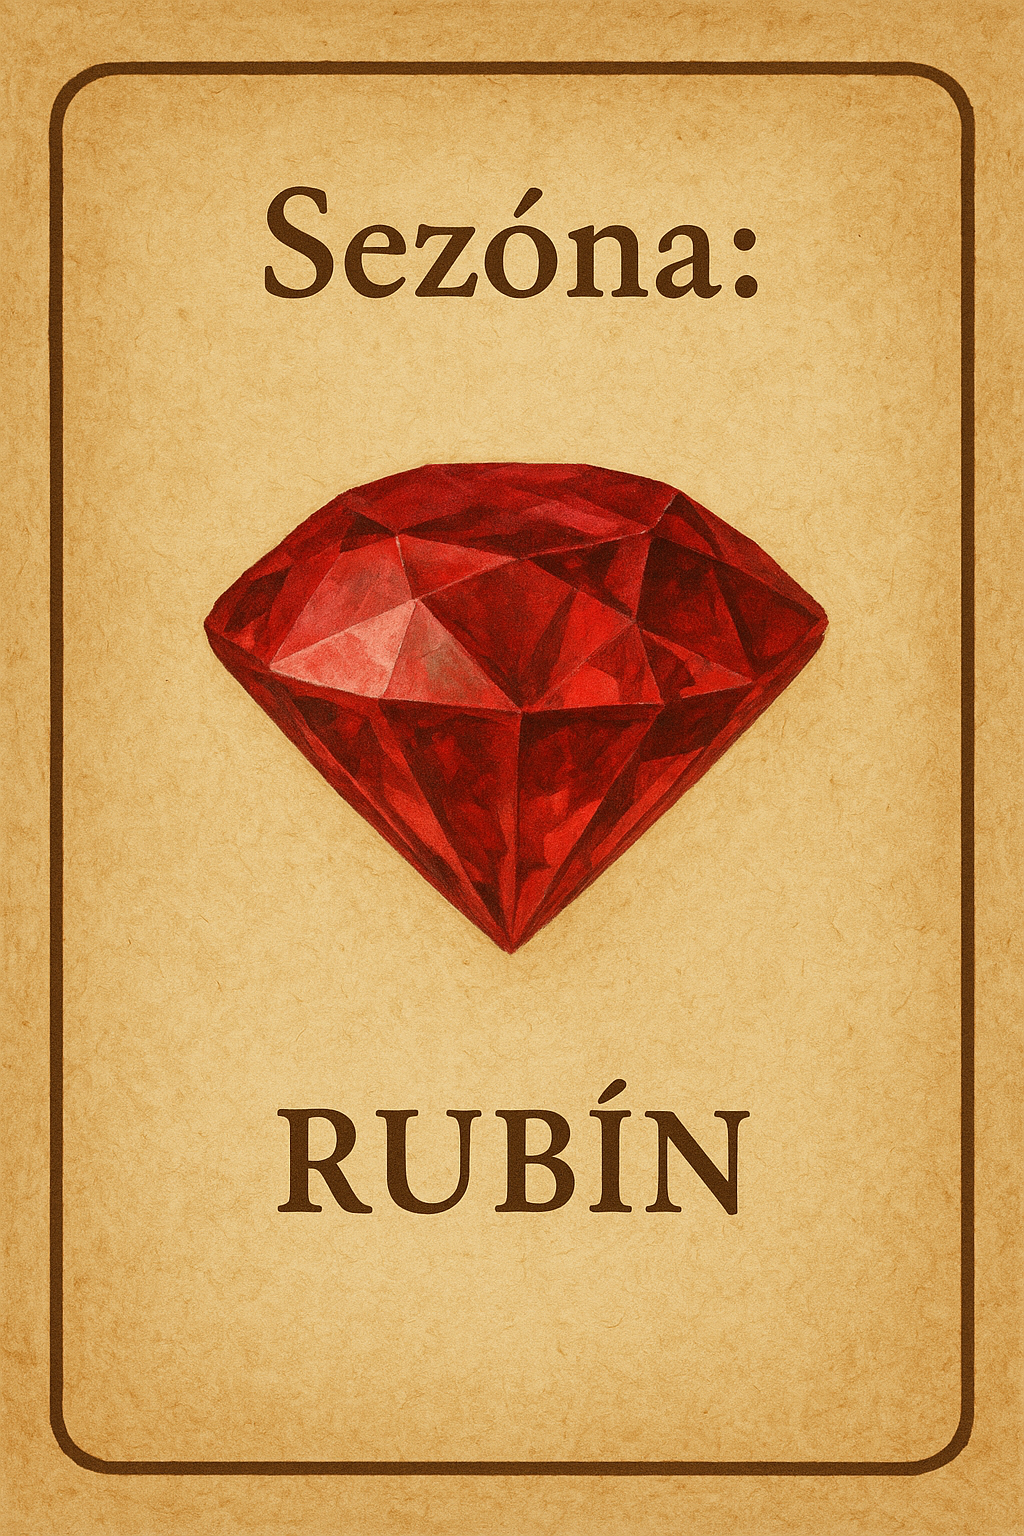
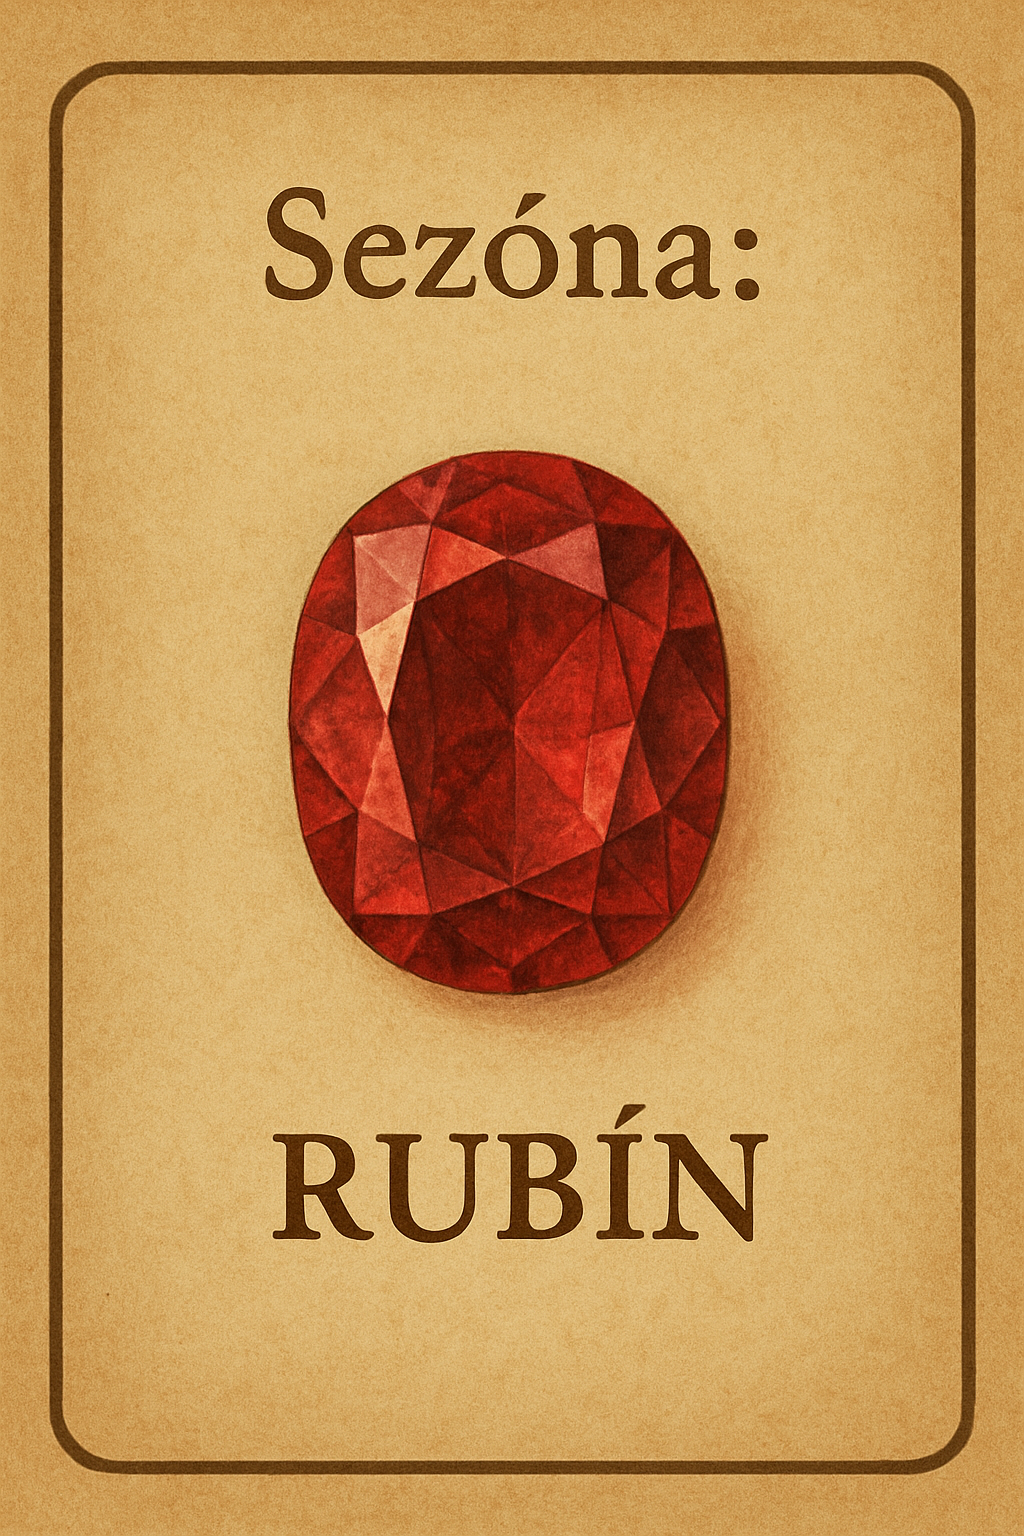
další obrázky karet

diff --git a/README.md b/README.md
@@ -6,6 +6,7 @@
     - [Tabulka karet Sezón (žetonů)](#tabulka-karet-sezón-žetonů)
     - [Tabulka karet událostí](#tabulka-karet-událostí)
     - [Herní příklad](#herní-příklad)
+    - [Přehledová kartička s nápovědou](#přehledová-kartička-s-nápovědou)
 
 Přicházejí sezónní slevy (zdražení) na nákup karet. 
 Vybrané kameny jsou na kartách levnější, nebo dražší podle údálostí ve hře.
@@ -33,7 +34,7 @@ Počet událostí: 5, 10, 15 (aby byli soudělné balíčky)
 
 Typy událostí:
 - **+2** - Zavalený důl ⛏, Parné léto ☀
-- **+1** - Změna vkusu 💍, královská daň 👑, potopená loď ⚓, ledový průsmyk ❄, rozbouřené moře 🌊, piráti 🏴☠, Ztracená karavana
+- **+1** - Změna vkusu 💍, královská daň 👑, potopená loď ⚓, ledový průsmyk 🧊, rozbouřené moře 🌊, piráti 🏴☠, Ztracená karavana 🐪
 - **-1** - Obchodní smlouva 📜, cechovní podpora 🛠, krátká zima ❄, vydatná žíla 💎, příznivý vítr 💨
 - **-2** - Nová naleziště 💎, Snížené clo 🪙
 
@@ -83,7 +84,7 @@ Použito jako popis pro generování obrázků v ChatGPT.
 
 | Diamant | Onyx | Rubín | Smaragd | Safír |
 |---|---|---|---|---|
-| ![](assets/stones/ChatGPT-Sozóna_Diamant.png) | ![](assets/stones/ChatGPT-Sozóna_Onyx.png) | ![](assets/stones/ChatGPT-Sezóna_Rubín_v2.png) | ![](assets/stones/ChatGPT-Sezóna_Smaragd.png) | ![](assets/stones/ChatGPT-Sezóna_Safír.png) |
+| ![](assets/stones/ChatGPT-Sozóna_Diamant.png) | ![](assets/stones/ChatGPT-Sozóna_Onyx.png) | ![](assets/stones/ChatGPT-Sezóna_Rubín.png) | ![](assets/stones/ChatGPT-Sezóna_Smaragd.png) | ![](assets/stones/ChatGPT-Sezóna_Safír.png) |
 
 ### Tabulka karet událostí
 
@@ -127,3 +128,34 @@ Při nákupu karet s cenou v bílých žetonech musíte k ceně (bílým) přič
 | 2 bílé       | 3 bílé    |
 | 1 černý      | 2 černé   |
 | 3 zelené     | 3 zelené  |
+
+### Přehledová kartička s nápovědou
+
+🂠 SPLENDOR: SEZÓNY – Přehled
+
+🎲 Změna sezóny
+
+- Na začátku svého tahu může hráč hodit kostkou.
+- Padne-li 6, změní se sezóna.
+- Otoč novou kartu Sezóny a novou kartu Události.
+
+💎 Karty
+- Sezóny určují barvu žetonu.
+- Události mění cenu karet (např. +1, −2).
+- Žetony zlata (🟡) se nikdy nemění.
+
+⚖ Účinek
+
+Při nákupu karty:
+- Připočti / odečti cenu žetonu podle události.
+- Cena nemůže být záporná.
+
+💡 Např.:
+
+Událost −2 Zelené → všechny karty se zelenými žetony jsou levnější o 2.
+
+🔄 Konec události
+
+Změní se, když padne další 6 na kostce.
+
+![Přehledová kartička s nápovědou](assets/ChatGPT-SEZÓNY_Přehled.png)
